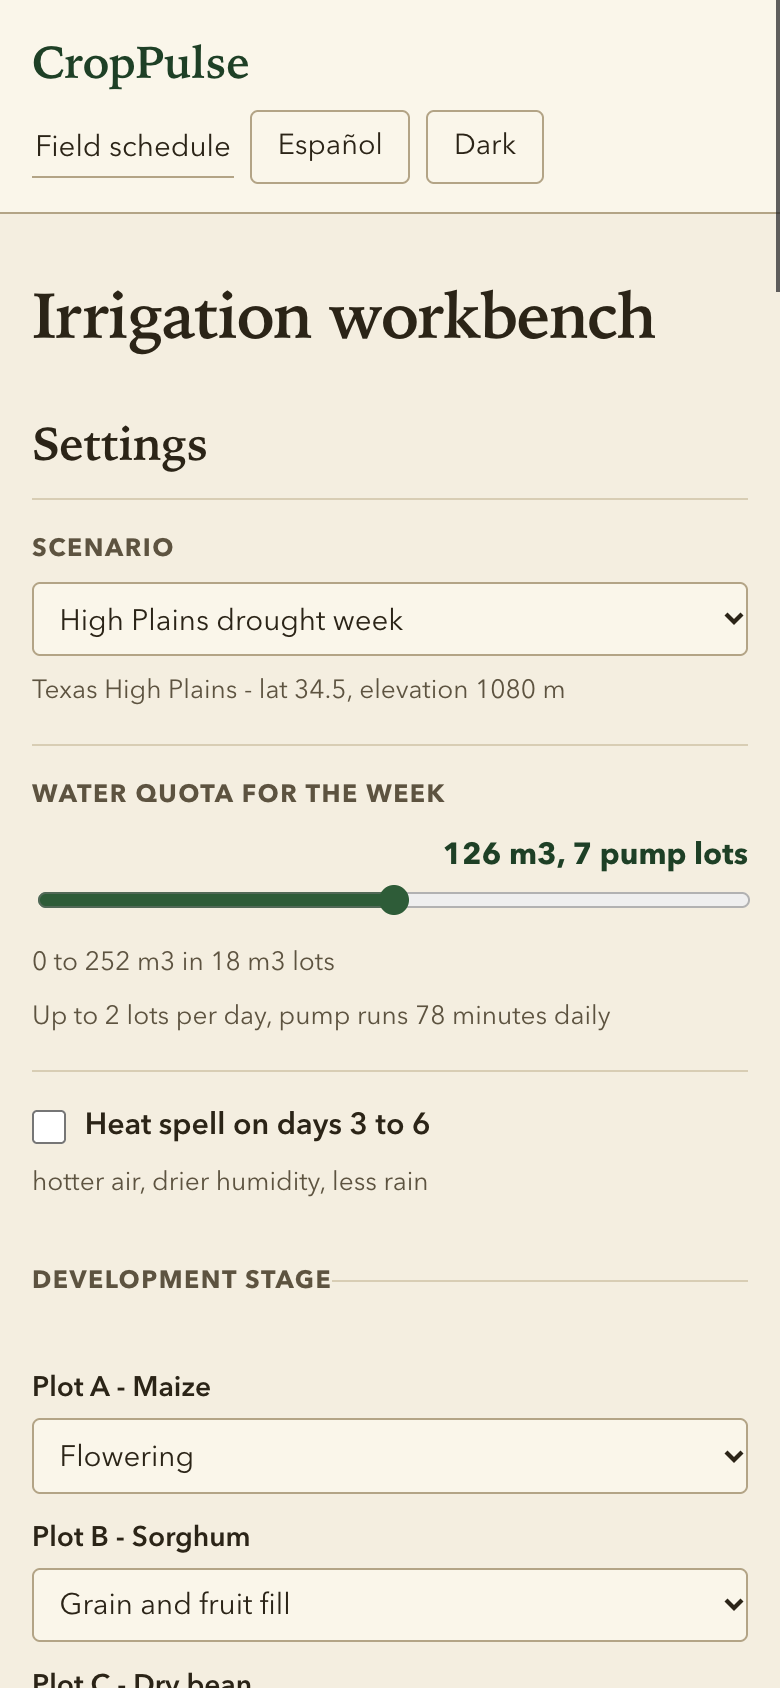
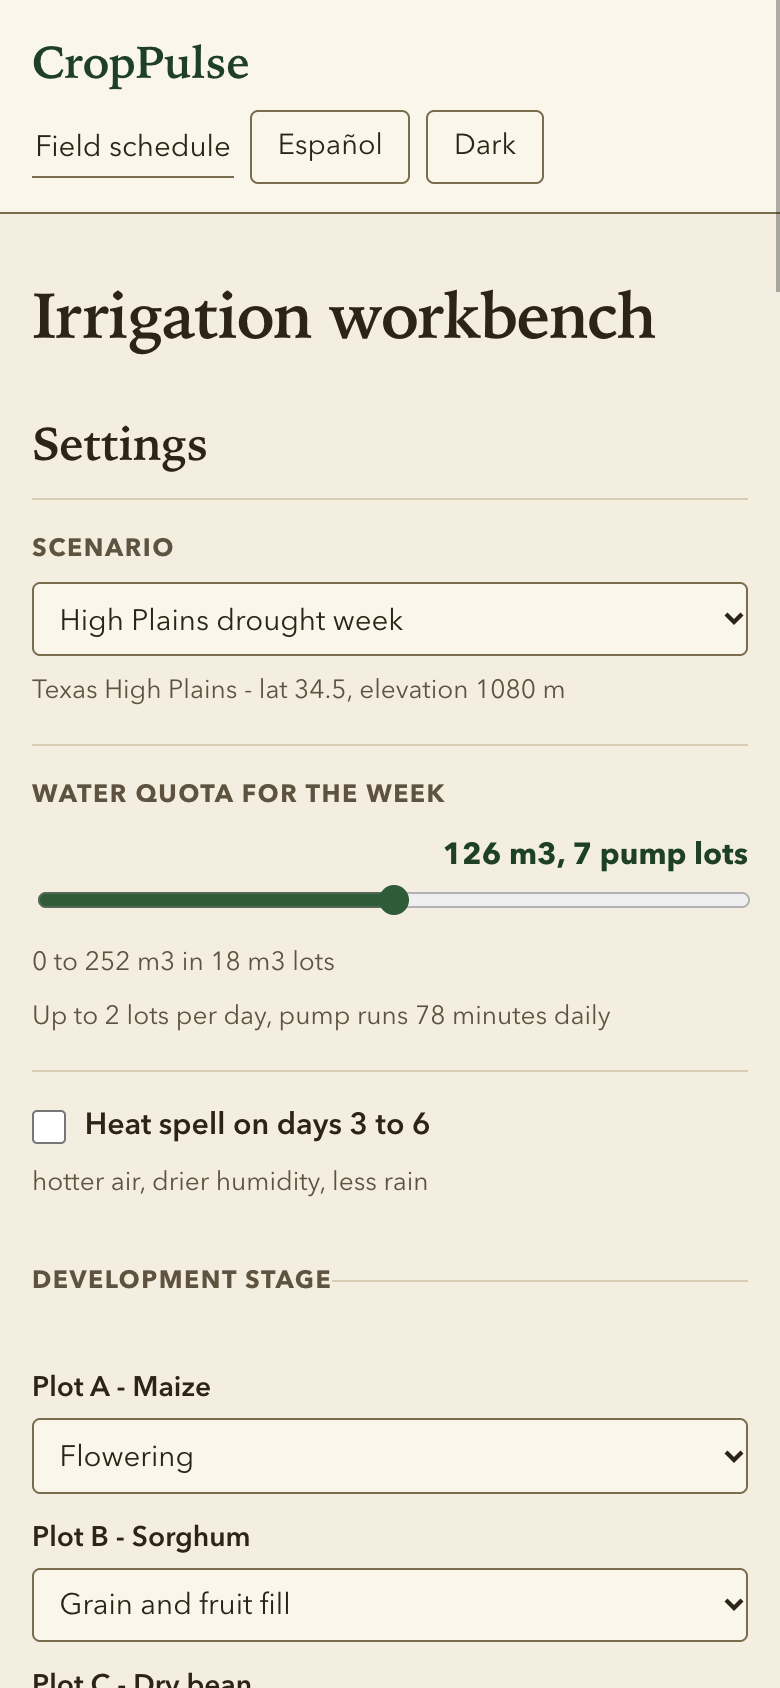
Harden optimizer feasibility, ICS output, host errors, and contrast
The exact optimizer only honored a daily pump cap of one or two lots:
a zero-capacity input still scheduled pulses, and malformed options
or inputs could crash or silently drop a plot. Feasibility now scales
to any daily limit and both entry points validate with RangeError.

ICS export now strips C1 controls, Unicode line and paragraph
separators, and lone surrogates from text and UID components, and
rejects fractional-second timestamps instead of truncating them. The
local host answers 400 on an unparseable request target instead of
500. The print sheet no longer injects a second h1, its accessible
name follows the locale, and border and amber colors now clear WCAG
contrast floors in both themes. Cache version bumped and the
contrast, outline, localization, and host checks are regression
tests.

Changed region(s): [[0.9846, 0.0, 1.0, 0.1848], [0.5231, 0.0616, 0.5538, 0.0924]]

diff --git a/src/planner.js b/src/planner.js
@@ -9,6 +9,9 @@ const popcount = n => {
 };
 
 export function prepare(scenarioId, options = {}) {
+  if (options === null || typeof options !== 'object' || Array.isArray(options)) {
+    throw new RangeError('invalid options');
+  }
   const scenario = SCENARIOS.find(item => item.id === scenarioId);
   if (!scenario) throw new RangeError('unknown scenario');
   const { quota = scenario.quota, shock = false, stages = scenario.plots.map(p => p.stage) } = options;
@@ -116,6 +119,12 @@ export function calendarBaseline(input) {
 // Exact for three plots, at most one fixed-volume pulse per plot per day.
 // After precomputing per-plot trajectories the only cross-plot coupling is feasibility.
 export function optimize(input) {
+  if (!input || !Array.isArray(input.plots) || input.plots.length !== 3 ||
+      !Array.isArray(input.weather) || input.weather.length < 1 || input.weather.length > 30 ||
+      !Number.isInteger(input.budgetLots) || input.budgetLots < 0 ||
+      !Number.isInteger(input.dailyLots) || input.dailyLots < 0) {
+    throw new RangeError('invalid optimization input');
+  }
   const variants = input.plots.map((_, index) =>
     Array.from({ length: 2 ** input.weather.length }, (_, mask) => simulatePlot(input, index, mask))
       .filter(plot => plot.lots <= input.budgetLots));
@@ -127,13 +136,17 @@ export function optimize(input) {
   for (const a of aOptions) {
     for (const b of bOptions) {
       const shared = a.mask & b.mask;
+      const union = a.mask | b.mask;
       const subtotal = a.lots + b.lots;
-      if (subtotal > input.budgetLots || (input.dailyLots === 1 && shared)) continue;
+      if (subtotal > input.budgetLots ||
+          (input.dailyLots < 1 && union) ||
+          (input.dailyLots === 1 && shared)) continue;
       for (const c of cOptions) {
         const lots = subtotal + c.lots;
         if (lots > input.budgetLots ||
-            (input.dailyLots === 1 && ((a.mask | b.mask) & c.mask)) ||
-            (input.dailyLots === 2 && (shared & c.mask))) continue;
+            (input.dailyLots < 1 && (union | c.mask)) ||
+            (input.dailyLots < 2 && (shared | (union & c.mask))) ||
+            (input.dailyLots < 3 && (shared & c.mask))) continue;
         feasible++;
         const score = a.calories + b.calories + c.calories;
         if (score > bestScore || (score === bestScore && lots < bestLots)) {
@@ -144,6 +157,7 @@ export function optimize(input) {
       }
     }
   }
+  if (!best) throw new RangeError('no feasible schedule');
   return { ...summarize(input, best), feasible };
 }
 

diff --git a/tests/model.test.js b/tests/model.test.js
@@ -199,7 +199,7 @@ function exhaustive(input) {
 for (const scenario of SCENARIOS) {
   for (const shock of [false, true]) {
     for (const days of [1, 3, 4]) {
-      for (const dailyLots of [1, 2]) {
+      for (const dailyLots of [0, 1, 2]) {
         for (const budgetLots of [0, 2, 5]) {
           test(`exact independent enumeration ${scenario.id} shock=${shock} days=${days} daily=${dailyLots} budget=${budgetLots}`, () => {
             const input = prepare(scenario.id, { shock, stages: shock ? STAGES : undefined });
@@ -292,12 +292,40 @@ test('stage edit changes crop demand and sensitivity but not rooting geometry', 
 
 test('invalid options and masks cannot create partial or nonfinite plans', () => {
   for (const opts of [{ quota: NaN }, { quota: -1 }, { quota: 379 }, { quota: '20' },
-    { shock: 0 }, { stages: [] }, { stages: Array(3) }, { stages: ['flower', 'fill', 'x'] }]) {
+    { shock: 0 }, { stages: [] }, { stages: Array(3) }, { stages: ['flower', 'fill', 'x'] },
+    null, 'x', 5, [], true]) {
     assert.throws(() => prepare('high-plains', opts), RangeError);
   }
   assert.throws(() => prepare('unknown'), RangeError);
   const input = prepare('terraces');
   for (const mask of [-1, 2 ** input.weather.length, NaN, 2.5]) {
     assert.throws(() => simulatePlot(input, 0, mask), RangeError);
+  }
+});
+
+test('a zero daily pump window yields a dry plan, and caps apply per day', () => {
+  const input = prepare('high-plains', { quota: 126 });
+  const dry = optimize({ ...input, dailyLots: 0 });
+  assert.equal(dry.lots, 0);
+  assert.equal(dry.water, 0);
+  assert.equal(dry.feasible, 1);
+  assert.ok(dry.schedule.every(day => day.events.length === 0));
+  for (const dailyLots of [1, 2, 3]) {
+    const plan = optimize({ ...input, dailyLots });
+    assert.ok(plan.schedule.every(day => day.events.length <= dailyLots));
+  }
+});
+
+test('optimize rejects malformed planner inputs with RangeError', () => {
+  const input = prepare('terraces');
+  for (const patch of [
+    { plots: input.plots.slice(0, 2) },
+    { plots: [...input.plots, input.plots[0]] },
+    { weather: [] },
+    { weather: Array(31).fill(input.weather[0]) },
+    { budgetLots: -1 }, { budgetLots: 1.5 }, { budgetLots: NaN }, { budgetLots: '4' },
+    { dailyLots: -1 }, { dailyLots: 0.5 }, { dailyLots: NaN }, { dailyLots: '2' },
+  ]) {
+    assert.throws(() => optimize({ ...input, ...patch }), RangeError);
   }
 });

diff --git a/src/exports.js b/src/exports.js
@@ -25,9 +25,12 @@ export function scheduleCSV(result) {
   return rows.map(row => row.map(csvCell).join(',')).join(crlf) + crlf;
 }
 
+const stripUnsafe = value => String(value)
+  .replace(/[\u0000-\u001f\u007f-\u009f\u2028\u2029\ud800-\udfff]/gu, '');
+
 export function icsText(value) {
-  return String(value).replaceAll('\\', '\\\\').replace(/\r\n|\r|\n/gu, '\\n')
-    .replaceAll(';', '\\;').replaceAll(',', '\\,').replace(/[\u0000-\u001f\u007f]/gu, '');
+  return stripUnsafe(String(value).replaceAll('\\', '\\\\').replace(/\r\n|\r|\n/gu, '\\n')
+    .replaceAll(';', '\\;').replaceAll(',', '\\,'));
 }
 
 export function foldLine(line) {
@@ -51,6 +54,9 @@ function icalDate(value) {
   if (typeof value !== 'string' || !/^\d{4}-\d\d-\d\dT\d\d:\d\d:\d\d(?:\.\d{3})?Z$/u.test(value)) {
     throw new TypeError('expected UTC date and time');
   }
+  if (value.includes('.') && !value.endsWith('.000Z')) {
+    throw new TypeError('fractional seconds are not supported');
+  }
   const normalized = value.includes('.') ? value : value.replace('Z', '.000Z');
   const date = new Date(normalized);
   if (!Number.isFinite(date.valueOf()) || date.toISOString() !== normalized) {
@@ -59,7 +65,8 @@ function icalDate(value) {
   return normalized.replace(/[-:]|\.\d{3}/gu, '');
 }
 
-export function scheduleICS(result, scenarioId, { stamp = new Date().toISOString(), es = false } = {}) {
+export function scheduleICS(result, scenarioId,
+  { stamp = new Date().toISOString().replace(/\.\d{3}Z$/u, 'Z'), es = false } = {}) {
   const lines = ['BEGIN:VCALENDAR', 'VERSION:2.0', 'PRODID:-//CropPulse//Field Schedule 1.0//EN',
     'CALSCALE:GREGORIAN'];
   const timestamp = icalDate(stamp);
@@ -68,7 +75,7 @@ export function scheduleICS(result, scenarioId, { stamp = new Date().toISOString
       const start = icalDate(event.start);
       const end = icalDate(event.end);
       if (end <= start) throw new RangeError('event must end after it starts');
-      const key = encodeURIComponent(`${scenarioId}/${event.plot}/${start}`);
+      const key = encodeURIComponent(stripUnsafe(`${scenarioId}/${event.plot}/${start}`));
       const summary = es ? `Riego de parcela ${event.plot}` : `Irrigate plot ${event.plot}`;
       const notes = es ? `${event.volume} m3. Plan simulado, no una recomendaci\u00f3n.` :
         `${event.volume} m3. Simulated plan, not a recommendation.`;

diff --git a/tests/serve.test.js b/tests/serve.test.js
@@ -1,0 +1,51 @@
+import assert from 'node:assert/strict';
+import { Socket } from 'node:net';
+import { test } from 'node:test';
+import { startServer } from '../scripts/serve.mjs';
+
+function rawRequest(port, head) {
+  return new Promise((resolve, reject) => {
+    const socket = new Socket();
+    let body = '';
+    socket.setTimeout(5000);
+    socket.connect(port, '127.0.0.1',
+      () => socket.write(head));
+    socket.on('data', chunk => { body += chunk; });
+    socket.on('timeout', () => socket.destroy());
+    socket.on('close', () => resolve(body));
+    socket.on('error', reject);
+  });
+}
+
+const statusLine = raw => raw.split('\r\n', 1)[0];
+
+test('static host answers 400, not 500, on malformed Host headers', async () => {
+  const host = await startServer({ port: 0 });
+  try {
+    for (const malformed of ['Host: [::1\r\n', 'Host: x:99999\r\n', 'Host: a b\r\n']) {
+      const raw = await rawRequest(host.port,
+        `GET /croppulse/ HTTP/1.1\r\n${malformed}Connection: close\r\n\r\n`);
+      assert.match(statusLine(raw), /^HTTP\/1\.1 400/u, `${malformed.trim()} -> ${statusLine(raw)}`);
+    }
+  } finally {
+    await host.close();
+  }
+});
+
+test('static host serves the shell and its headers on an ordinary request', async () => {
+  const host = await startServer({ port: 0 });
+  try {
+    const raw = await rawRequest(host.port,
+      'GET /croppulse/ HTTP/1.1\r\nHost: 127.0.0.1\r\nConnection: close\r\n\r\n');
+    assert.match(statusLine(raw), /^HTTP\/1\.1 200/u);
+    assert.match(raw, /content-security-policy: default-src 'none'/iu);
+    const post = await rawRequest(host.port,
+      'POST /croppulse/ HTTP/1.1\r\nHost: 127.0.0.1\r\nContent-Length: 0\r\nConnection: close\r\n\r\n');
+    assert.match(statusLine(post), /^HTTP\/1\.1 405/u);
+    const missing = await rawRequest(host.port,
+      'GET /croppulse/../etc/passwd HTTP/1.1\r\nHost: 127.0.0.1\r\nConnection: close\r\n\r\n');
+    assert.match(statusLine(missing), /^HTTP\/1\.1 (404|400)/u);
+  } finally {
+    await host.close();
+  }
+});

diff --git a/tests/exports.test.js b/tests/exports.test.js
@@ -62,6 +62,23 @@ test('calendar UID and escaped summary cannot inject properties or a second even
   assert.equal(icsText('x\r\ny\rz\n;,\\\t'), 'x\\ny\\nz\\n\\;\\,\\\\');
 });
 
+test('calendar escaping strips universal newlines, C1 controls and lone surrogates', () => {
+  assert.equal(icsText('a\u2028b\u2029c\u0085d\u009f'), 'abcd');
+  assert.equal(icsText('x\ud800y\udfffz'), 'xyz');
+  const hostile = structuredClone(sample);
+  hostile.schedule[0].events[0].plot = 'A\u2028B\u0085C\ud800';
+  const output = scheduleICS(hostile, 'test', { stamp });
+  assert.doesNotMatch(output, /[\u2028\u2029\u0085-\u009f\ud800-\udfff]/u);
+});
+
+test('fractional seconds are rejected rather than truncated', () => {
+  const shifted = structuredClone(sample);
+  shifted.schedule[0].events[0].end = '2027-07-12T12:36:00.500Z';
+  assert.throws(() => scheduleICS(shifted, 'test', { stamp }), TypeError);
+  assert.throws(() => scheduleICS(sample, 'test', { stamp: '2026-11-21T03:04:05.500Z' }), TypeError);
+  assert.throws(() => scheduleICS(sample, 'test', { stamp: '2026-11-21T03:04:05.001Z' }), TypeError);
+});
+
 for (const length of [0, 72, 73, 74, 75, 76, 149, 207]) {
   test(`calendar folding preserves content at byte boundary ${length}`, () => {
     const input = 'a'.repeat(length) + '\u00f3\u{1f33e}tail'.repeat(20);

diff --git a/styles.css b/styles.css
@@ -6,17 +6,15 @@
   color-scheme: light;
   --paper: #f4eee0;
   --paper-raised: #faf6ea;
-  --paper-sunk: #ece4d0;
   --ink: #2b2417;
   --ink-soft: #5d5340;
   --rule: #d8cdb4;
-  --rule-strong: #b3a486;
+  --rule-strong: #7a6d4e;
   --forest: #2e5c38;
   --forest-deep: #1e4026;
   --forest-fill: rgba(46, 92, 56, 0.16);
   --terra: #a8523a;
-  --terra-fill: rgba(168, 82, 58, 0.12);
-  --amber: #8f6d1c;
+  --amber: #7a5d0f;
   --crit: #8c3a1c;
   --grid: #e3d8be;
   --band: rgba(46, 92, 56, 0.07);
@@ -32,16 +30,14 @@
   color-scheme: dark;
   --paper: #1e1a12;
   --paper-raised: #262017;
-  --paper-sunk: #171310;
   --ink: #eae1cd;
   --ink-soft: #b4a88d;
   --rule: #40382a;
-  --rule-strong: #5c513c;
+  --rule-strong: #8f8265;
   --forest: #8ab892;
   --forest-deep: #b3d6b9;
   --forest-fill: rgba(138, 184, 146, 0.16);
   --terra: #d08a6c;
-  --terra-fill: rgba(208, 138, 108, 0.12);
   --amber: #cfa84e;
   --crit: #e08054;
   --grid: #3a3325;

diff --git a/index.html b/index.html
@@ -15,6 +15,6 @@
 <a class="skip" href="#main">Skip to workbench</a>
 <header class="topbar"><a class="wordmark" href="./">CropPulse</a><nav aria-label="Workbench actions"><a href="#schedule" id="schedule-link">Field schedule</a><button type="button" id="language">Español</button><button type="button" id="theme" aria-pressed="false">Dark</button></nav></header>
 <main id="main"><h1 id="page-title">Irrigation workbench</h1><div class="workspace"><aside id="controls"></aside><section id="analysis"></section></div><section id="schedule" tabindex="-1"></section><section id="method"></section></main>
-<section id="print-sheet" aria-label="Printable field schedule"></section>
+<section id="print-sheet" aria-label="Field schedule"></section>
 </body>
 </html>

diff --git a/sw.js b/sw.js
@@ -1,12 +1,12 @@
 // CropPulse service worker. Precaches the app shell under this worker's scope
 // so the workbench keeps working offline. Same-origin GET requests only; it
-// never calls out to any external service. Bump the cache version (v1) when
+// never calls out to any external service. Bump the cache version (v2) when
 // shipping changes so a mixed-version shell never serves.
 
 const SCOPE_PATH = new URL('./', self.location.href).pathname;
 const INDEX_URL = new URL('./', self.location.href).href;
 const PREFIX = `croppulse:${SCOPE_PATH}:`;
-const CACHE = `${PREFIX}v1`;
+const CACHE = `${PREFIX}v2`;
 
 const SHELL = [
   './',

diff --git a/src/i18n.js b/src/i18n.js
@@ -109,7 +109,6 @@ export const T = {
 
     plotsTitle: 'Plots',
     plotWord: 'Plot',
-    plotButton: (id, crop) => `Show plot ${id}, ${crop}, in the main figure`,
     plotArea: (m2) => `${m2} m2`,
     plotYield: 'yield',
     plotCrit: 'critical days',
@@ -225,7 +224,6 @@ export const T = {
 
     plotsTitle: 'Parcelas',
     plotWord: 'Parcela',
-    plotButton: (id, crop) => `Mostrar la parcela ${id}, ${crop}, en la figura principal`,
     plotArea: (m2) => `${m2} m2`,
     plotYield: 'rendimiento',
     plotCrit: 'días críticos',

diff --git a/src/ui.js b/src/ui.js
@@ -706,8 +706,9 @@ function renderMethod() {
 function renderPrintSheet() {
   const s = t();
   const sheet = document.getElementById('print-sheet');
+  sheet.setAttribute('aria-label', s.printTitle);
   sheet.replaceChildren(
-    h('h1', 'print-title', s.printTitle),
+    h('p', 'print-title', s.printTitle),
     h('p', 'print-meta', s.printMeta(scenarioNames[lang()][input.scenario.id], new Date().toISOString())),
   );
   const table = tableEl('print-table');

diff --git a/docs/methods.md b/docs/methods.md
@@ -17,6 +17,8 @@ Daily reference evapotranspiration for short grass uses FAO Irrigation and Drain
 
 FAO-56 Example 18 uses measurements from Uccle on 6 July. The input is `Tmin = 12.3`, `Tmax = 21.5`, `RHmin = 63`, `RHmax = 84`, `wind = 10 km/h at 10 m`, `latitude = 50.8`, `elevation = 100 m`, `J = 187` and `sunshine = 9.25 h`. The published result is 3.88 mm/day before the paper rounds it to 3.9. Tests check the result and thirteen published intermediate values at their printed precision.
 
+Two input paths are mutually exclusive: when an actual vapor pressure is supplied, the humidity fields are not consulted, and when a measured solar value is supplied, the sunshine field is not consulted. Under extreme heat and humidity, or with little sun, the humidity and cloud terms can push the unclipped estimate below zero; the raw value is still reported while the operational demand stays at zero. In polar night the cloud term falls back to zero, but a nonzero wind can still yield a small positive estimate through the aerodynamic term of the daily equation.
+
 ## Soil and crop response
 
 Available water in millimeters is `TAW = 1000 (theta_FC - theta_WP) Zr`. Readily available water is `RAW = p TAW`, with the FAO-56 daily crop demand correction `p = clamp(p_table + 0.04 (5 - ETc), 0.1, 0.8)`. Potential crop ET is `Kc ET0`. The single-coefficient stress approximation scales crop ET by `Ks`, evaluated after the day's morning wetting and drainage; uptake cannot exceed remaining available water.

diff --git a/DESIGN.md b/DESIGN.md
@@ -4,16 +4,15 @@ description: A field notebook workbench for a simulated irrigation plan, ruled l
 colors:
   ivory-paper: '#f4eee0'
   raised-paper: '#faf6ea'
-  sunk-paper: '#ece4d0'
   warm-ink: '#2b2417'
   ink-soft: '#5d5340'
   row-rule: '#d8cdb4'
-  rule-strong: '#b3a486'
+  rule-strong: '#7a6d4e'
   forest-data: '#2e5c38'
   forest-deep: '#1e4026'
   forest-wash: 'rgba(46, 92, 56, 0.16)'
   terra-calendar: '#a8523a'
-  amber-raw: '#8f6d1c'
+  amber-raw: '#7a5d0f'
   sienna-critical: '#8c3a1c'
   warm-grid: '#e3d8be'
   day-band: 'rgba(46, 92, 56, 0.07)'
